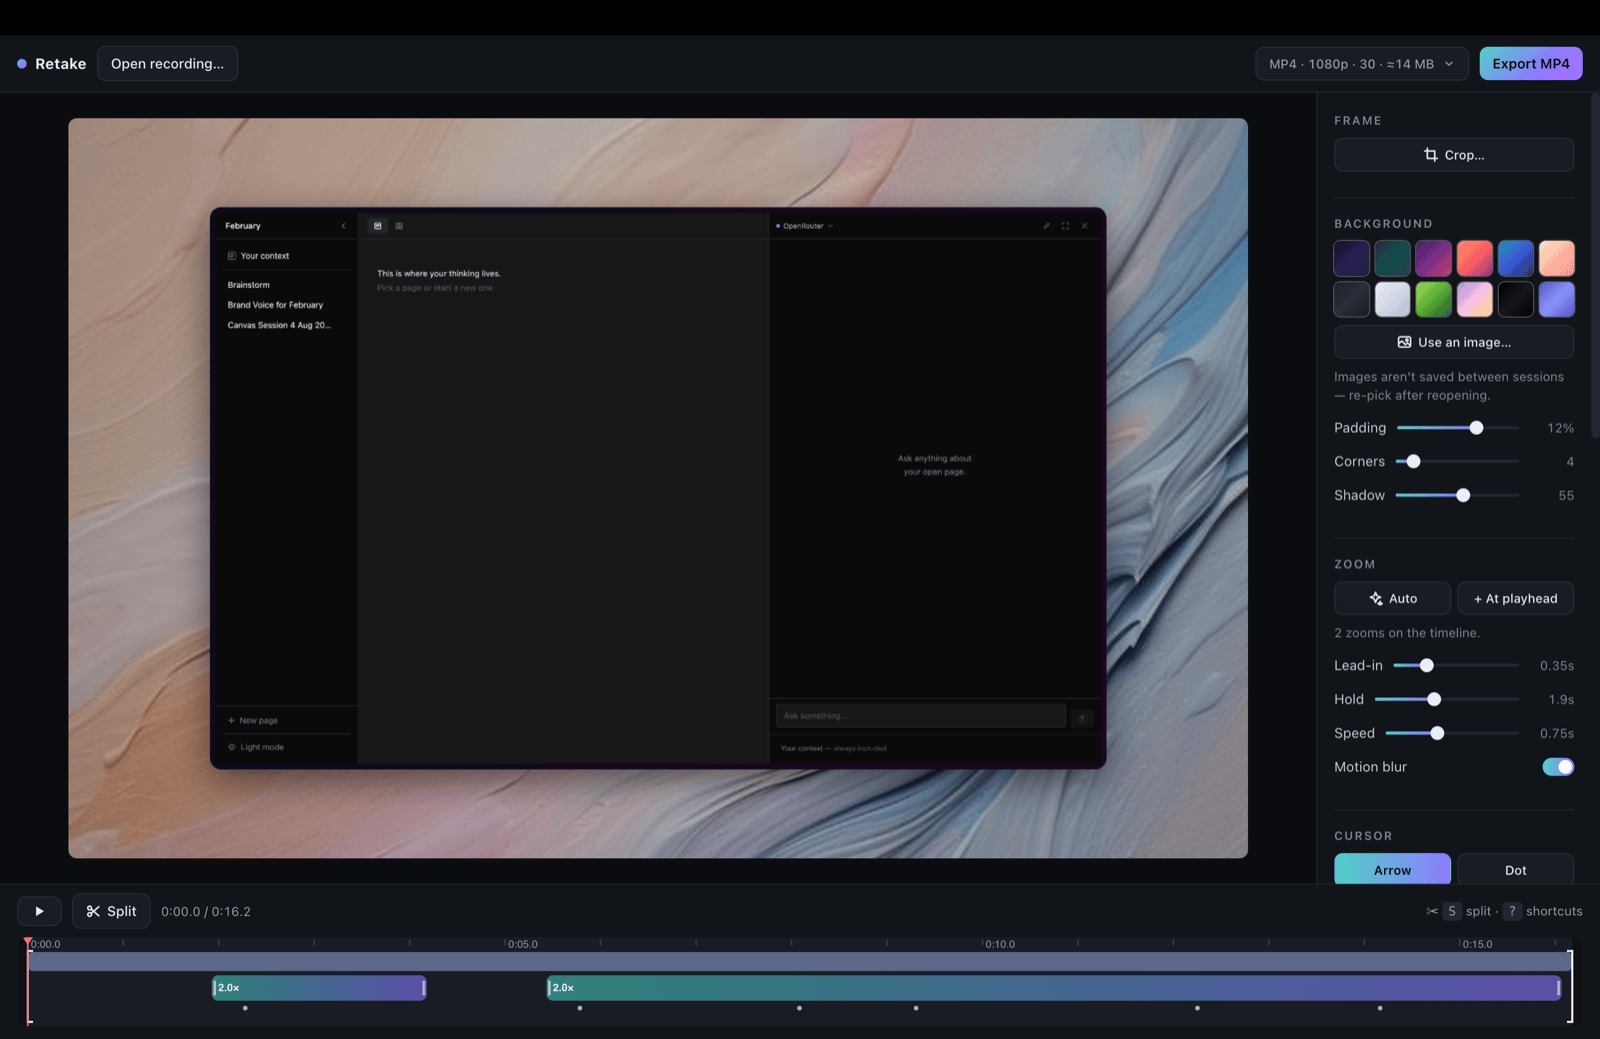
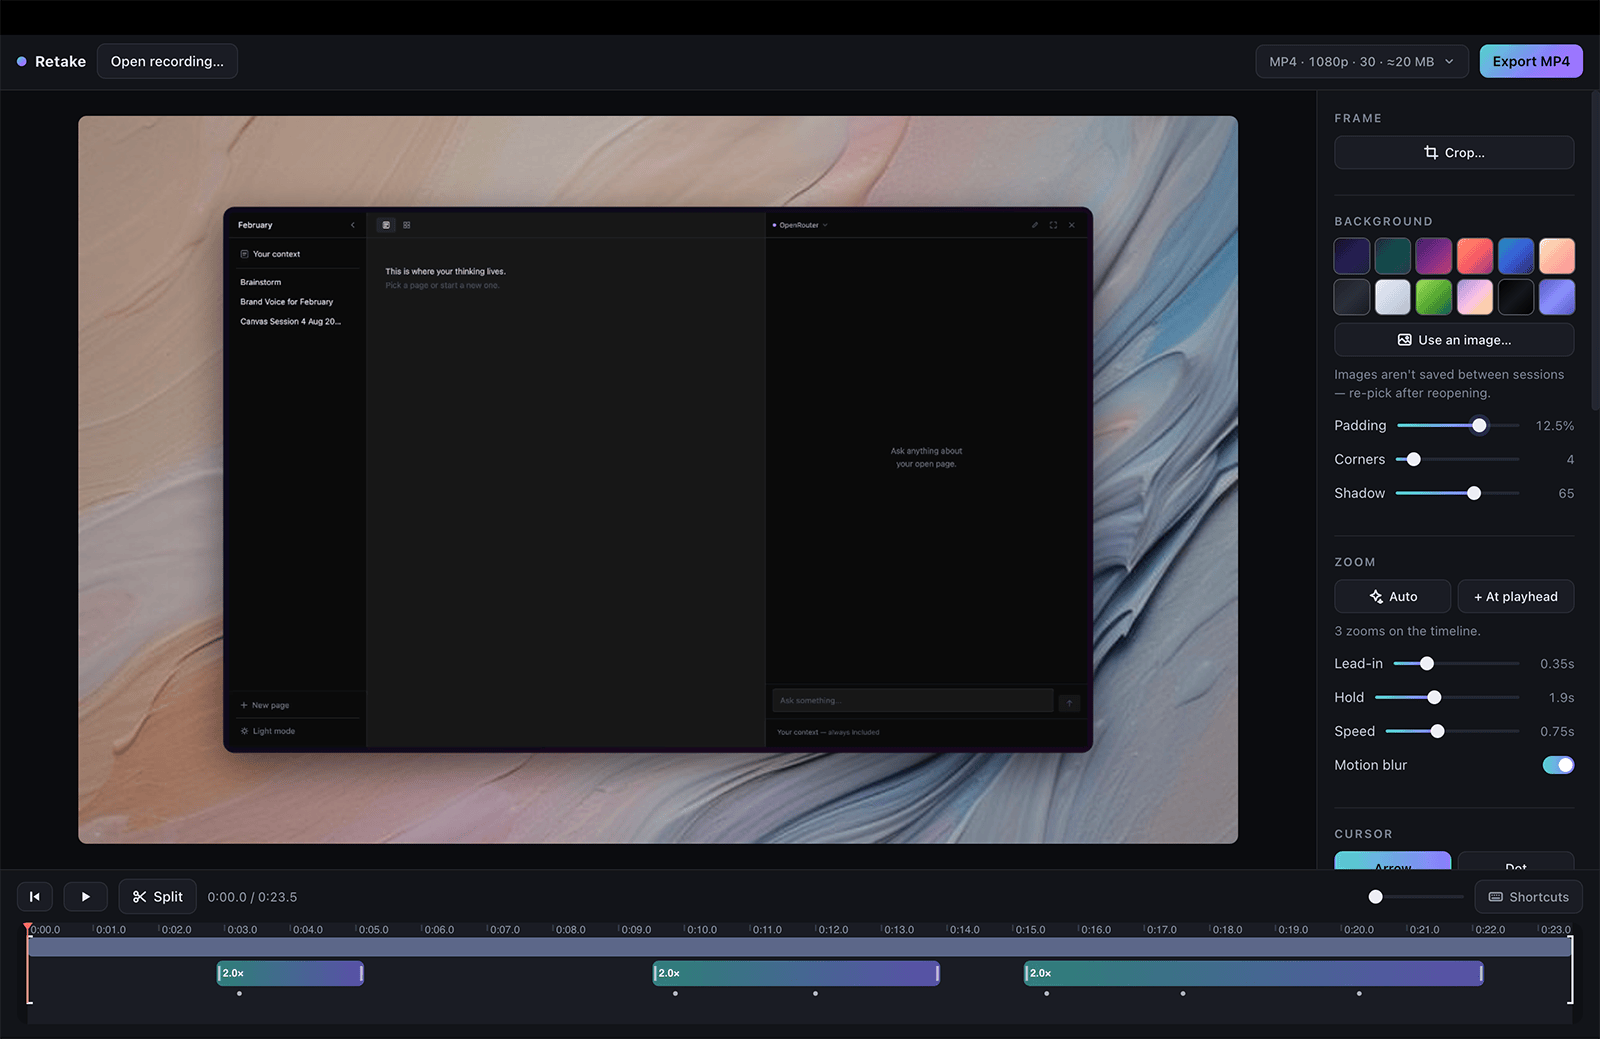
Hero: a current screenshot of the editor
Replaces a capture that predated the transport buttons, the timeline
zoom and the Shortcuts button. Quantised to 213KB at 1600px, and the
alt text now counts the zooms the picture actually shows.

diff --git a/README.md b/README.md
@@ -103,7 +103,7 @@ and, in Australia, by state.
 
 ## Editing
 
-![The Retake editor: a recording loaded on a painterly background image, framing and zoom controls in the sidebar, two zooms and the click markers visible on the timeline.](assets/hero.png)
+![The Retake editor: a recording loaded on a painterly background image, framing and zoom controls in the sidebar, three zooms and the click markers visible on the timeline.](assets/hero.png)
 
 1. Open `retake-editor.html` in **Chrome** (or Edge/Arc — anything Chromium).
    Tip: keep it in your Dock — it's just a file.
